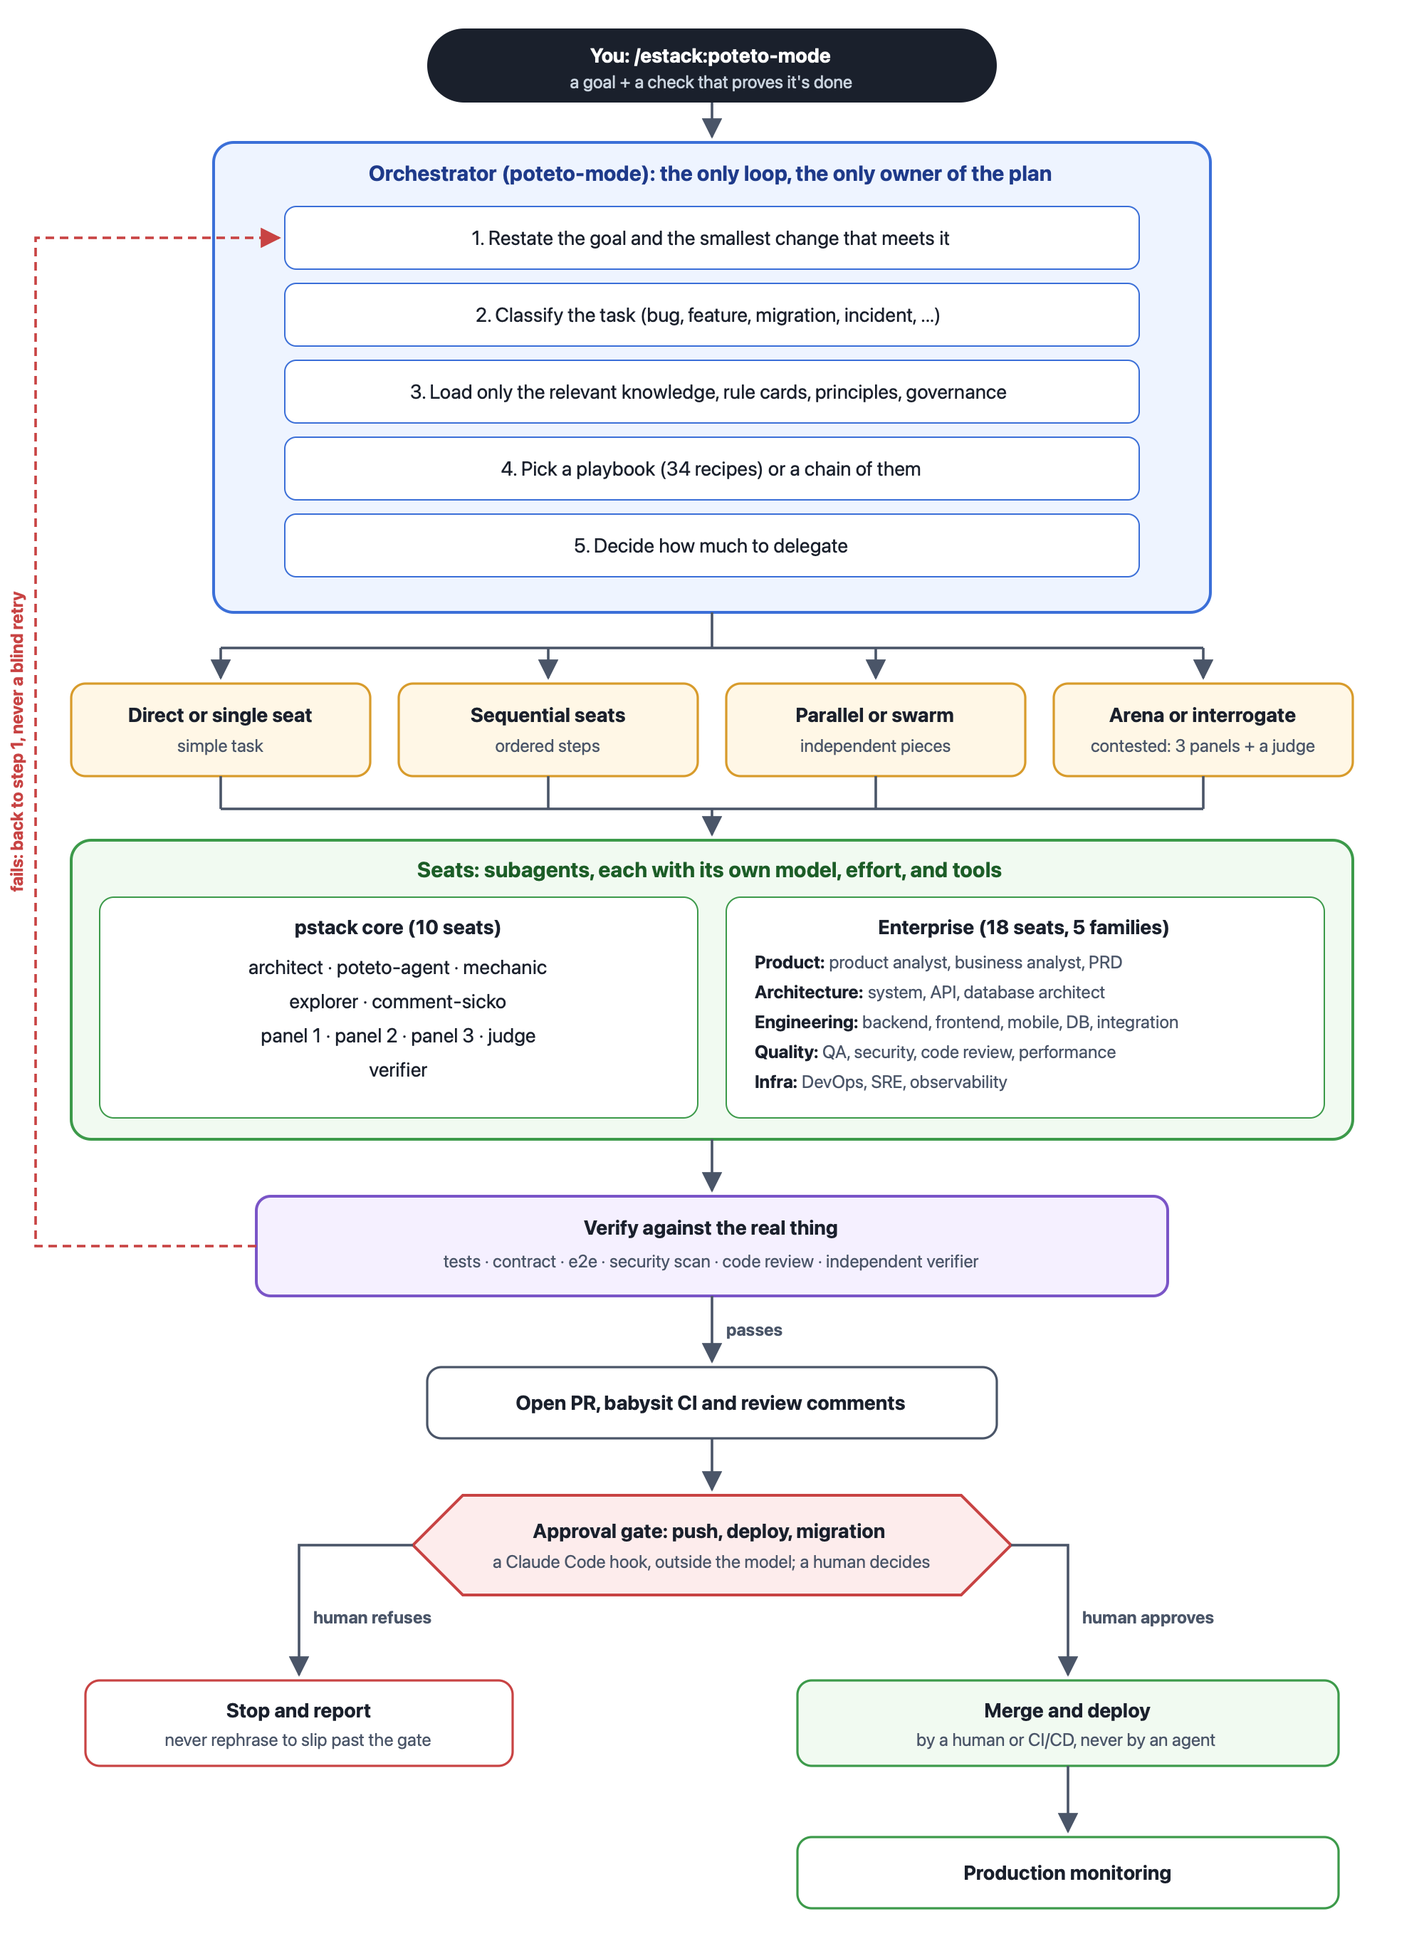
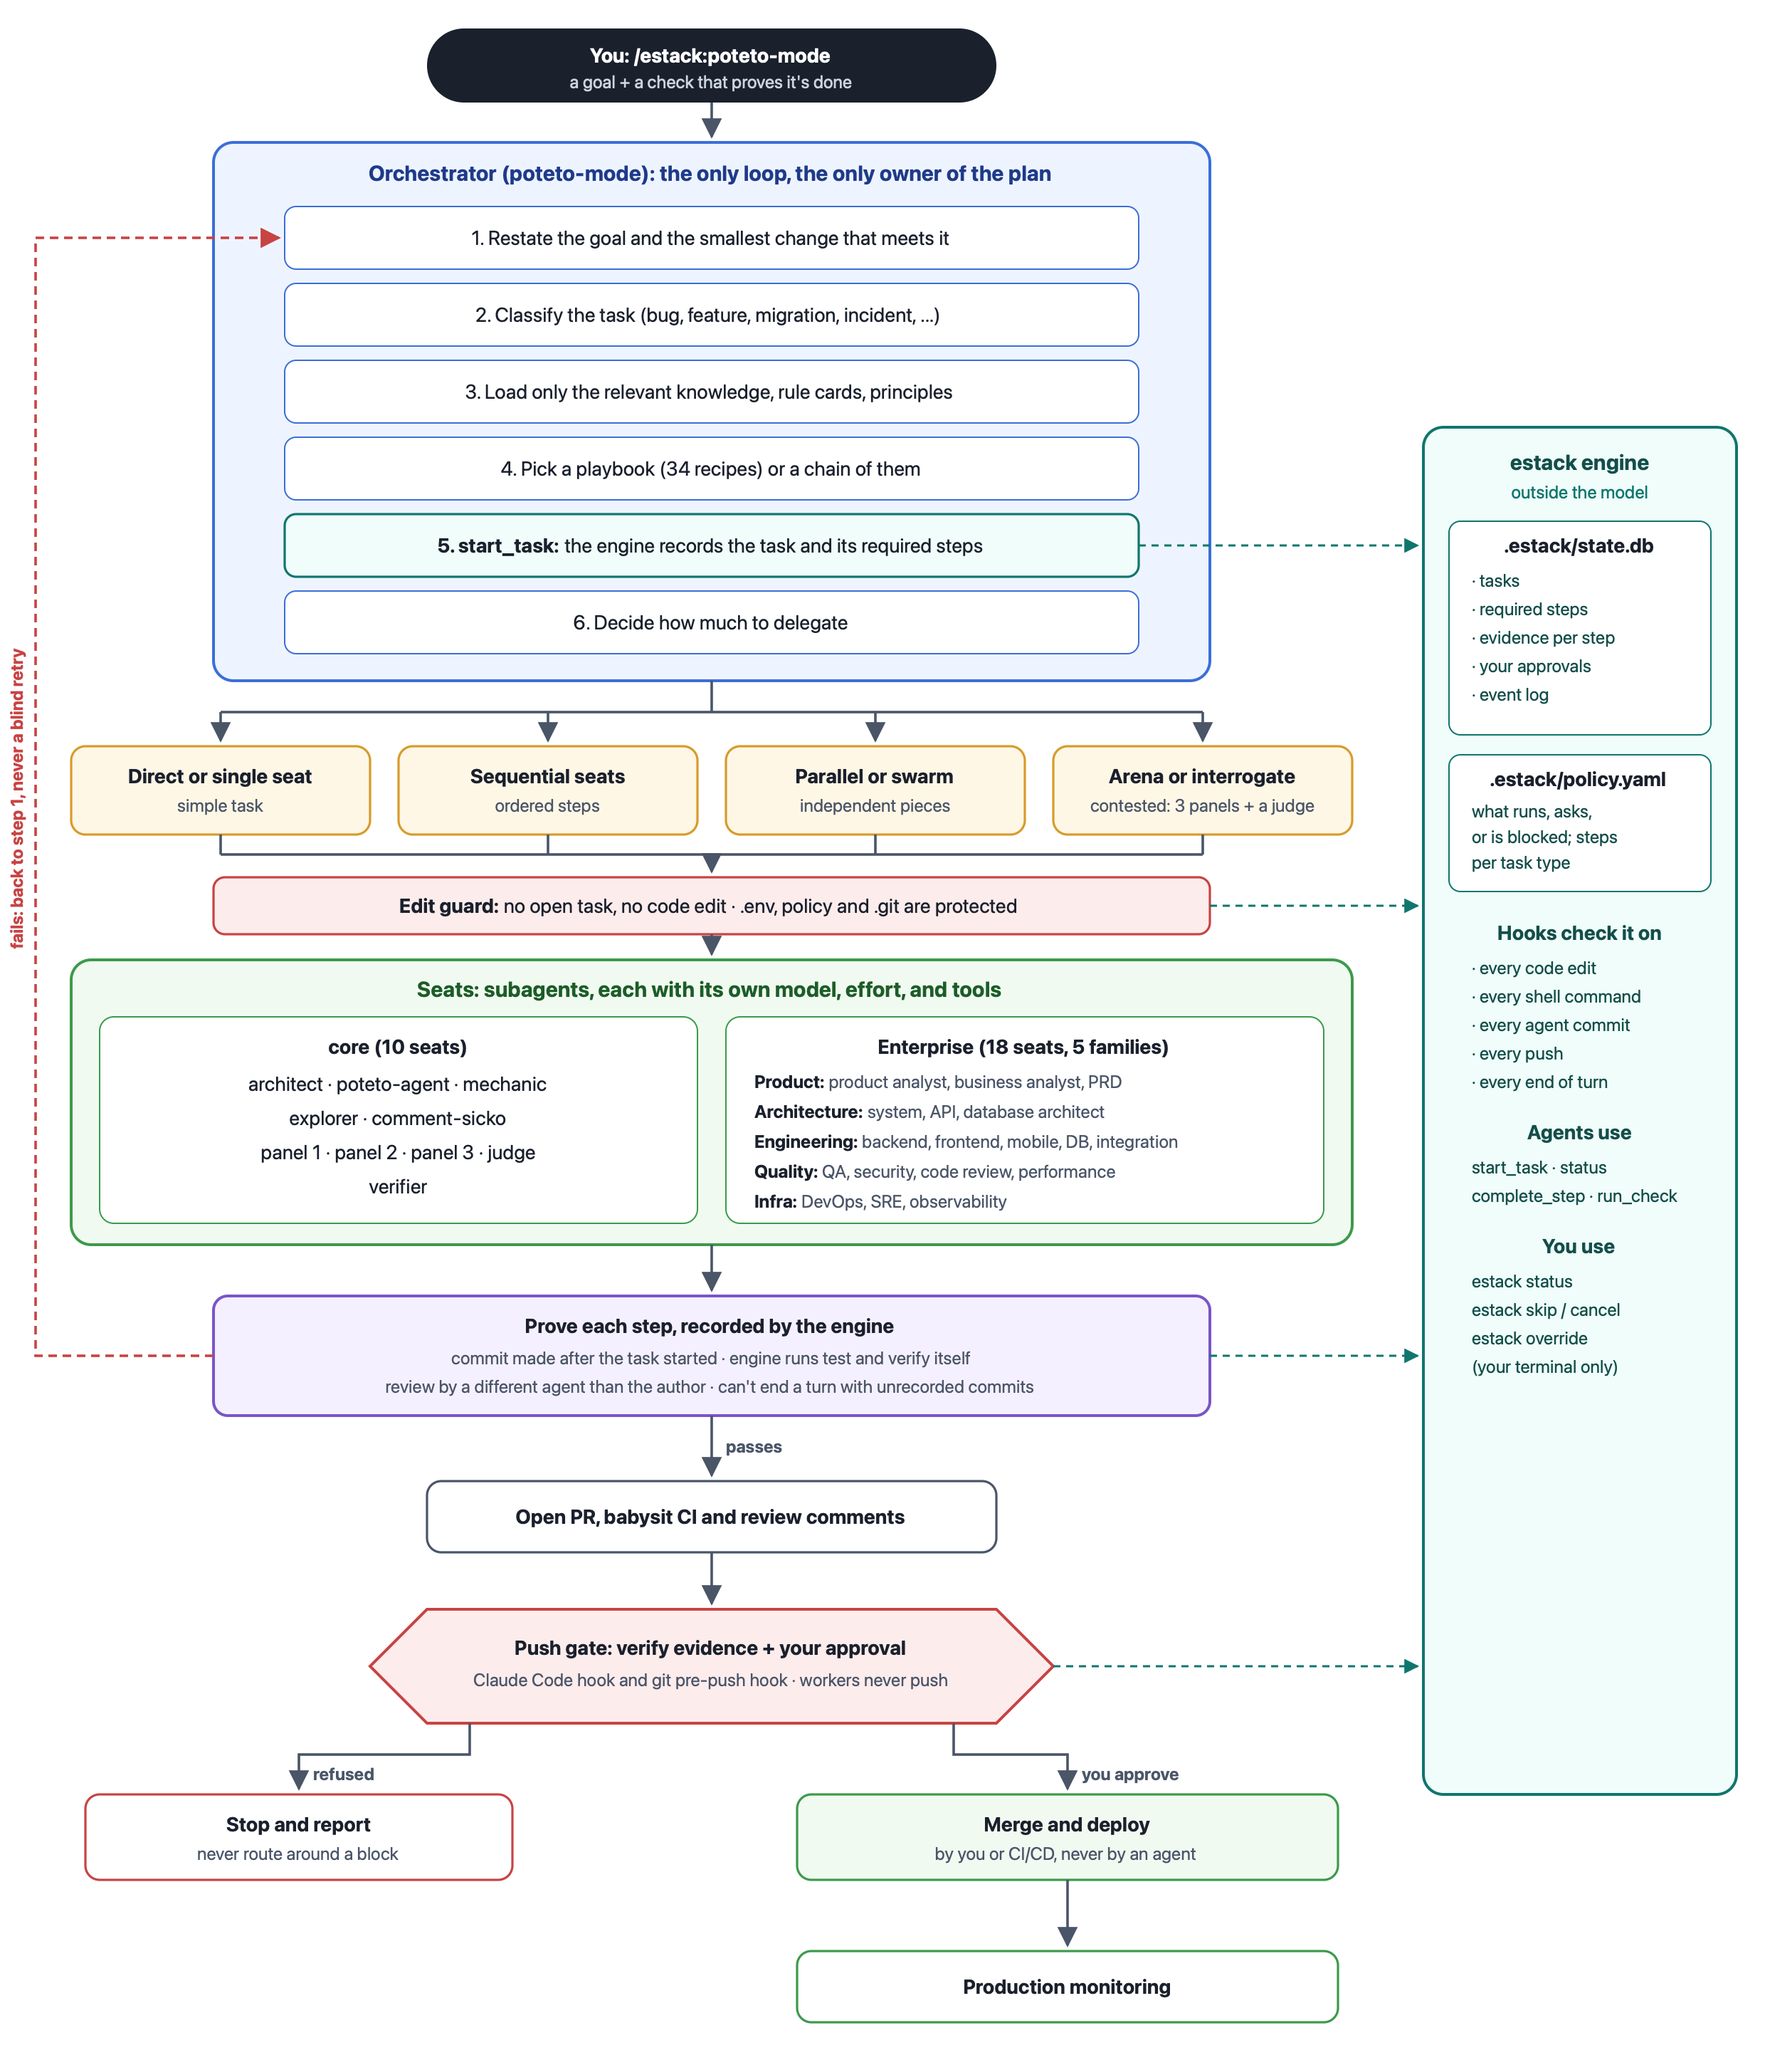
README and diagrams: show the engine, its guards and the roadmap

diff --git a/README.md b/README.md
@@ -11,6 +11,12 @@ orchestrator picks the right playbook, hands pieces of work to specialist
 subagents, makes independent reviewers check the result, and stops for a human
 before anything that touches shared systems (push, deploy, migration).
 
+What makes it a harness rather than a set of instructions: a small **engine**
+outside the model records every task, its required steps and the evidence for
+each step, and **hooks** check that engine before every code edit, risky command,
+agent commit, push and end of turn. An agent can't skip a step or claim a test
+passed: the engine runs the tests itself, and the hooks block what isn't proven.
+
 ## Install
 
 Inside a Claude Code session:
@@ -21,11 +27,20 @@ Inside a Claude Code session:
 /estack:setup-models          # pick a model and effort for each seat, once
 ```
 
-In a repository where you want the enterprise layer (gates, knowledge index,
-governance policy), run once:
+You need Node 22.5 or newer (the engine uses `node:sqlite`).
+
+In a repository where you want the engine and its guards (plus the knowledge
+index and governance policy), run once:
 
 ```text
 /estack:setup
+```
+
+Then commit the policy yourself, from your own terminal. Agents aren't allowed
+to commit `.estack/policy.yaml`, so the git hook refuses if they try:
+
+```bash
+git add .estack && git commit -m "Add estack policy"
 ```
 
 Then start real work:
@@ -37,7 +52,7 @@ test passes and the file opens in Excel.
 
 ## How it works
 
-![How estack works: your goal goes to one orchestrator, which picks a playbook and a delegation mode, dispatches seats, verifies the result, and stops at a human approval gate before push, deploy, or migration](docs/images/how-it-works.png)
+![How estack works: your goal goes to one orchestrator, which records the task in the engine, picks a playbook and a delegation mode, and dispatches seats behind an edit guard; each step is proven and recorded by the engine, and a push gate needs verify evidence and your approval. The engine sits outside the model and the hooks check it at every edit, command, commit, push and end of turn](docs/images/how-it-works.png)
 
 ### The pieces, in plain words
 
@@ -84,10 +99,16 @@ schemas), a governance policy (which change types need architecture, security, o
 DBA review), and `/estack:prd-rules` turns a PRD into business-rule cards. Each
 subagent only gets the slice relevant to its job.
 
-**Approval gates.** Claude Code hooks sit outside the model. In an opted-in repo,
-editing source needs an open task, a push needs verify evidence and your
-approval, and workers never push. In a repo that didn't opt in, the hooks do
-nothing. See [Hooks](#hooks).
+**The engine and its guards.** The green panel in the diagram. Before any code
+is written the orchestrator calls `start_task`, and the engine records the task
+and the steps its type requires (for a feature: plan, reuse check, implement,
+test, verify, review, PR). Each step needs real proof: a commit made after the
+task started, a test run the engine did itself, a review from a different agent.
+Claude Code hooks and git hooks, outside the model, check the engine at every
+edit, risky command, agent commit, push and end of turn: no task means no code
+edit, no verify evidence means no push, and pushes, merges, deploys and
+migrations wait for your approval. Workers never push. In a repo that didn't opt
+in, the hooks do nothing. See [Engine](#engine) and [Hooks](#hooks).
 
 **24 principles.** Short rules the agent cites when they change a decision: fix
 root causes, prove it works, subtract before you add, make illegal states
@@ -152,6 +173,7 @@ What the gates do not catch:
 estack/
   .claude-plugin/marketplace.json   the "estack" marketplace, points at adapters/claude-code/
   core/                             the harness content: you edit this
+  engine/                           the engine: tasks, evidence, MCP server, CLI, hooks, git hooks
   adapters/claude-code/             the Claude Code plugin, generated from core/ (what you install)
   adapters/*.ts                     the generator and its tests
   pstack-qoder/                     the Qoder edition, kept for reference
@@ -160,24 +182,40 @@ estack/
   docs/                             diagrams, design docs and plans
 ```
 
-**Edit `core/`, never `adapters/claude-code/`.** The generator copies `core/` into
-each adapter, filling in that coding agent's names and paths, so one set of content
-can serve several coding agents. Claude Code is the first adapter.
+**Edit `core/` and `engine/`, never `adapters/claude-code/`.** The generator copies
+`core/` into each adapter, filling in that coding agent's names and paths, and
+bundles the engine into one file inside it, so one set of content can serve
+several coding agents. Claude Code is the first adapter.
 
 ![How the plugin is built: you edit core/, the generator writes adapters/claude-code/](docs/images/build-chain.png)
 
 Rebuild and check everything:
 
 ```bash
-npm install
-npm run build:claude          # regenerate adapters/claude-code/ from core/
-npm test                      # the generator's tests
+npm ci
+npm run build:claude          # regenerate adapters/claude-code/ from core/ and engine/
+npm test                      # generator and engine tests
 (cd adapters/claude-code && bash scripts/selftest.sh)
 ```
 
 The self-test runs static conformance, an engine hook smoke test,
 `claude plugin validate`, and fails if `adapters/claude-code/` differs from what
 `core/` generates.
+
+## Status and roadmap
+
+estack is being built in phases, each one usable on its own
+([design](docs/superpowers/specs/2026-11-25-estack-engine-design.md)).
+
+| Phase | What it adds | Status |
+|---|---|---|
+| 1 | `core/` plus a generated Claude Code plugin; renamed from pstack to estack | Done |
+| 2 | The engine: tasks, required steps, evidence, MCP tools, CLI | Done |
+| 3 | Hooks and git hooks that enforce the engine | Done |
+| 4 | Handover: continue a task in a fresh session from recorded state | Next |
+| 5 | Code map on [Graphify](https://github.com/Graphify-Labs/graphify): agents see existing code before writing new code, and reuse searches count as evidence | Planned |
+| 6 | Parallel workers in their own worktrees, with claims so two never build the same thing | Planned |
+| 7 | A second coding agent (Cursor or OpenCode) from the same `core/` | Planned |
 
 ## More detail
 
@@ -186,7 +224,8 @@ The self-test runs static conformance, an engine hook smoke test,
 - [core/docs/MODEL-ROUTING.md](core/docs/MODEL-ROUTING.md): how each seat gets its model and effort
 - [core/COMPATIBILITY.md](core/COMPATIBILITY.md): what works, what differs from upstream, what's unproven
 - [core/docs/guide/](core/docs/guide/README.md): the 10-page user guide
-- [docs/superpowers/specs/2026-11-25-estack-engine-design.md](docs/superpowers/specs/2026-11-25-estack-engine-design.md): the plan for the workflow engine, code map and handover
+- [docs/superpowers/specs/2026-11-25-estack-engine-design.md](docs/superpowers/specs/2026-11-25-estack-engine-design.md): the engine design, including the Graphify code map (amendment 1)
+- [docs/superpowers/plans/](docs/superpowers/plans/): the step-by-step plan for each phase
 
 ## Credits
 
